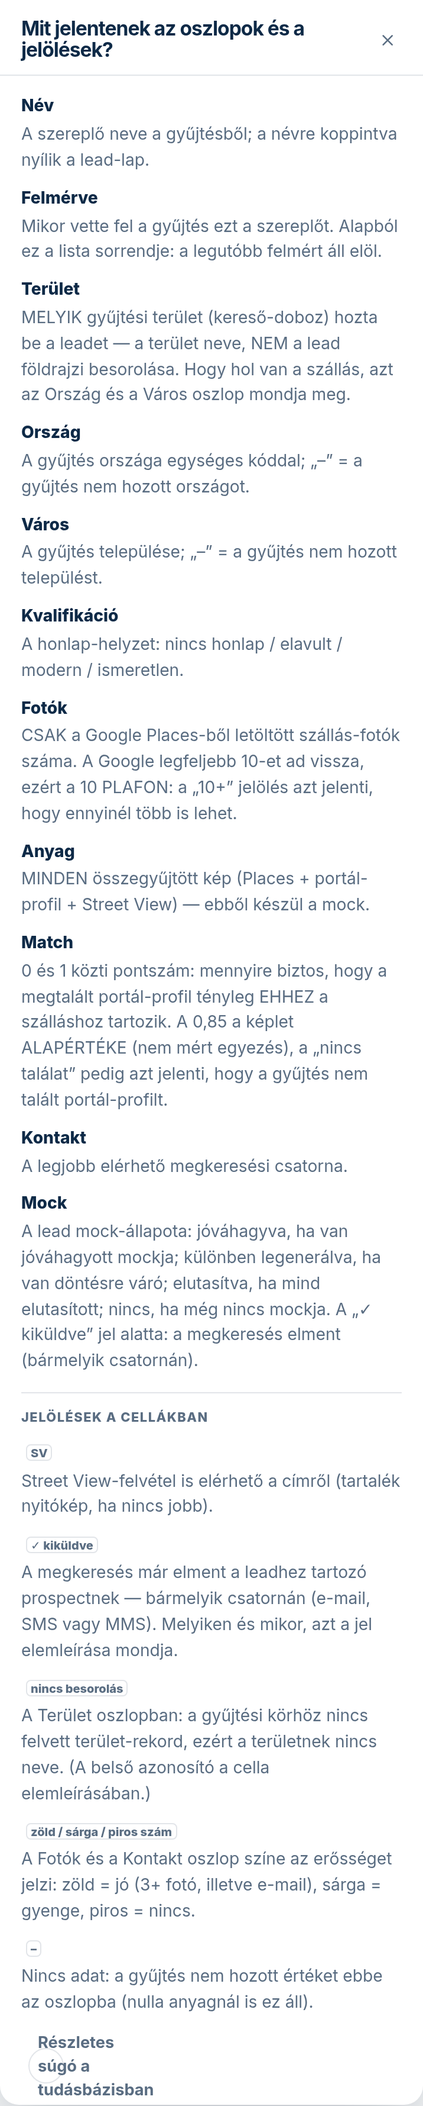
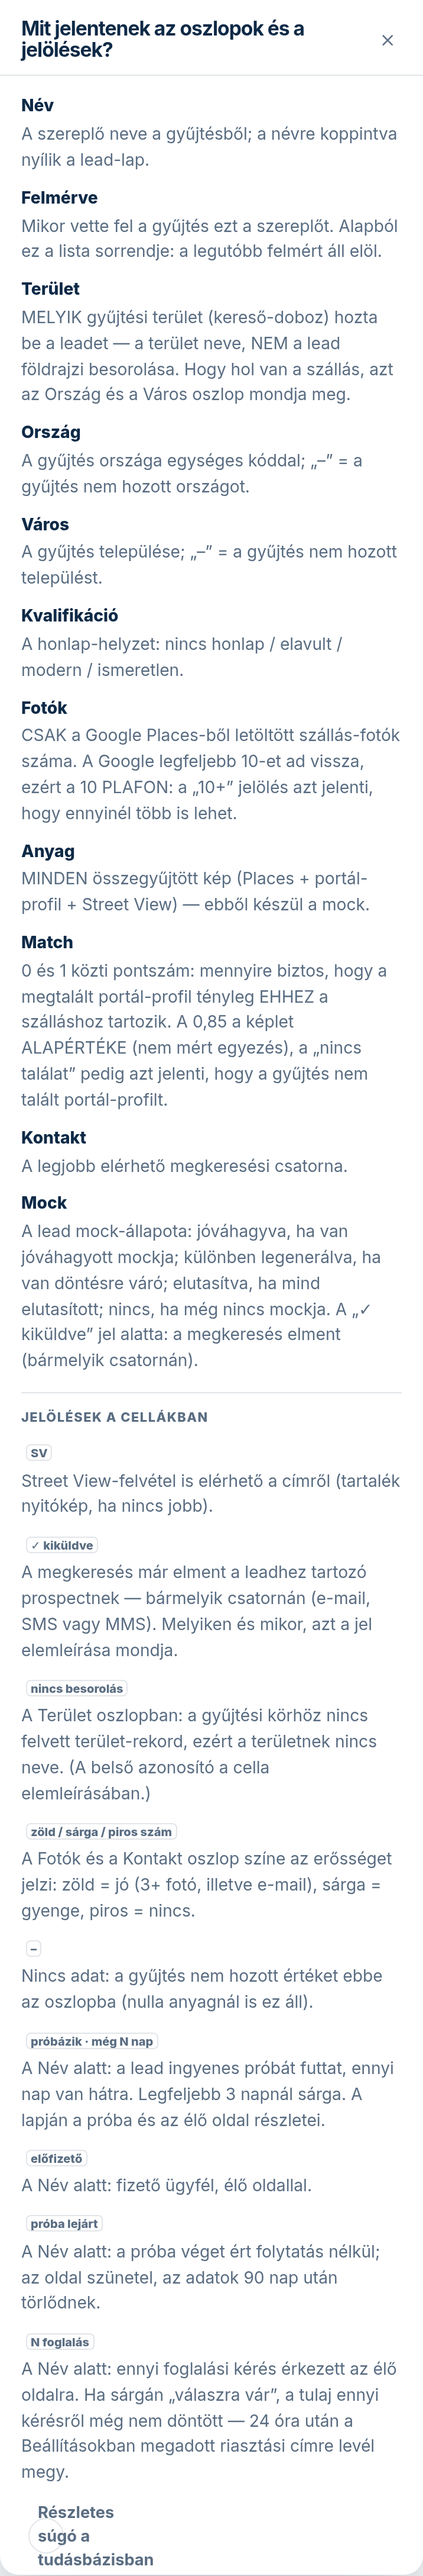
docs(kb): próba és foglalás a konzolon — a súgó a kód szerint (tudasbazis-or FLAG, ADR-0386)
- sárga határ: legfeljebb 3 nap (kód: <= 3), a lista- és a kártya-szöveg, jelmagyarázat, README
- a kártya megjelenési feltétele: próba (bármikor) / előfizető / foglalás — saját oldal egymagában nem
- a jelvény száma: válaszra várónál a váró kérések száma; „ma/holnap lejár”; teendő-mondat
- értesítés: a Beállítások „Üzemi riasztások” mezőnevei, rövid SMS + 6 órás / óránként 4-es szabály, mikor nem jön levél
- console-settings + a Beállítások felület riasztás-listája: új próba (levél + SMS), 24 órája megválaszolatlan foglalás (levél)
- console-free-trial: „Hol látod a próbát” — jelvény, szűrő, ügyfél-kártya, értesítés
- kb-shot: ügyfél-sorok a minta-listában; console-leads screen + legend újragyártva

Claude-Session: https://claude.ai/code/session_012Kxn7H5Dk8ea3TBfrTpnX6

Changed region(s): [[0.0307, 0.0, 0.9218, 0.9983]]

diff --git a/src/console/views.ts b/src/console/views.ts
@@ -786,7 +786,7 @@ export function settingsPage(
     </div>
     <div class="panel" style="max-width:560px">
       <h2>${T(lang, "Üzemi riasztások — ide szól a rendszer")}</h2>
-      <p class="mut small" style="margin:0 0 10px">${T(lang, "Ide megy MINDEN üzemi riasztás: az AAM-keret (18 M Ft/év) 80%/100%-a, a törött MMS+SMS pár, a .hu megerősítő link, a kifizetett, de többszöri próbálkozás után sem elkészült modul-generálás, a megrekedt rendelés (a vevő megrendelt, de fizetési linket nem kapott), az elakadt ingyenes próba (lejárat, értesítés, élesítés, belépő-levél, folytatás-fizetés), és a megvett, de a beállításban elakadt saját domain. Üres e-mail = e-mail csatorna ki; üres SMS-szám = a gép-szintű alap érvényes (ha van).")}</p>
+      <p class="mut small" style="margin:0 0 10px">${T(lang, "Ide megy MINDEN üzemi riasztás: az AAM-keret (18 M Ft/év) 80%/100%-a, a törött MMS+SMS pár, a .hu megerősítő link, a kifizetett, de többszöri próbálkozás után sem elkészült modul-generálás, a megrekedt rendelés (a vevő megrendelt, de fizetési linket nem kapott), az elakadt ingyenes próba (lejárat, értesítés, élesítés, belépő-levél, folytatás-fizetés), és a megvett, de a beállításban elakadt saját domain. Hír is jön ide: az új ingyenes próba (levél + SMS) és a 24 órája megválaszolatlan foglalási kérés (levél). Üres e-mail = e-mail csatorna ki; üres SMS-szám = a gép-szintű alap érvényes (ha van).")}</p>
       ${alertNotice ? `<div class="row" style="margin:0 0 10px"><span class="pill ${alertNotice.ok ? "approved" : "rejected"}">${esc(alertNotice.text)}</span></div>` : ""}
       <form method="post" action="/settings/alerts" style="display:block;max-width:340px">
         <label class="small mut" for="al-phone">${T(lang, "SMS-szám")}</label>

diff --git a/src/console/leadFilters.ts b/src/console/leadFilters.ts
@@ -451,7 +451,7 @@ export function cellMarkMeanings(lang = "hu"): { mark: string; meaning: string }
       mark: T(lang, "próbázik · még {n} nap", { n: "N" }),
       meaning: T(
         lang,
-        "A Név alatt: a lead ingyenes próbát futtat, ennyi nap van hátra. 3 napnál kevesebbnél sárga. A lapján a próba és az élő oldal részletei.",
+        "A Név alatt: a lead ingyenes próbát futtat, ennyi nap van hátra. Legfeljebb 3 napnál sárga. A lapján a próba és az élő oldal részletei.",
       ),
     },
     {
@@ -466,7 +466,7 @@ export function cellMarkMeanings(lang = "hu"): { mark: string; meaning: string }
       mark: T(lang, "{n} foglalás", { n: "N" }),
       meaning: T(
         lang,
-        "A Név alatt: ennyi foglalási kérés érkezett az élő oldalra. Ha sárgán „válaszra vár”, a tulaj még nem döntött róla — 24 óra után a ház levelet kap.",
+        "A Név alatt: ennyi foglalási kérés érkezett az élő oldalra. Ha sárgán „válaszra vár”, a tulaj ennyi kérésről még nem döntött — 24 óra után a Beállításokban megadott riasztási címre levél megy.",
       ),
     },
   ];

diff --git a/kb/entries/console-lead/entry.hu.md b/kb/entries/console-lead/entry.hu.md
@@ -41,33 +41,55 @@ belőle: ha nincs mért egyezés, akkor azt, hogy kiküldés előtt nézd át az
 
 ### Próba és foglalások — az ügyfél-kártya
 
-2026-10-14 óta, ha a leadnek **próbája** vagy **saját oldala** van, a sáv alatt egy kártya mondja
-meg, hol tart ügyfélként (Elek 10-13: addig a lap csak „jóváhagyva”-t írt, a próba és a foglalás
-sehol nem látszott).
+2026-10-14 óta a sáv alatt egy kártya mondja meg, hol tart a lead ügyfélként (Elek 10-13: addig a lap
+csak „jóváhagyva”-t írt, a próba és a foglalás sehol nem látszott). A kártya akkor jelenik meg, ha a lead:
+- próbázik, vagy valaha próbázott;
+- előfizető (akkor is, ha a díjjal késésben van);
+- vagy az élő oldalára foglalási kérés érkezett.
 
-- A kártya címe az állapot: „Próbázik — még 12 nap” (3 napnál kevesebbnél sárga, az utolsó
-  két napon „holnap lejár” / „ma lejár”), **„Előfizető — élő oldal”**, vagy „A próba lejárt 6 napja”.
+Egy saját oldal előfizetés és foglalás nélkül nem kap kártyát.
+
+- A kártya címe az állapot:
+  - próbánál „Próbázik — még N nap”, az utolsó két napon „holnap lejár” / „ma lejár”. Ha legfeljebb
+    3 nap van hátra, a keret és a csík sárga;
+  - **„Előfizető — élő oldal”**;
+  - vagy „A próba lejárt N napja”.
+
   Próbánál egy csík mutatja, hányadik napnál tart.
 - Az **„Élő oldal”** gomb új lapon nyitja a szállás élő oldalát (lejárt próbánál nincs, mert az
   oldal szünetel).
-- Próbánál a kártya kiírja, mikor **indult** és mikor **jár le**, a **„Folytatási kedvezmény”**
-  százalékát (ha még érvényes), a **„Kapcsolattartó (a próba-űrlapról)”** nevét, e-mailjét és
-  telefonját, és hogy előtte ment-e ki hozzá megkeresés. Lejárt próbánál azt is, mikor törlődnek
-  az adatok (a lejárat után 90 nappal).
-- A **„Foglalások”** táblázat az élő oldalra érkezett kéréseket mutatja, a legújabbal kezdve
-  (legfeljebb 10-et): kód, időszak, vendég, ellátás, összeg, állapot (**„válaszra vár”**,
-  **„ajánlat kiment”**, **„visszaigazolva”**, **„elutasítva”**, **„lejárt”**, **„lemondva”**),
-  és mikor érkezett. Telefonon a táblázat soronként kártyává áll.
-- ⚠ Ha a tulaj egy kérésre **24 órája nem válaszolt**, sárga sor mondja meg, mennyi ideje vár a
-  vendég, és mikor jár le magától a kérés (a webhely beállítása szerint, alapból 48 óra után):
-  **„Érdemes felhívni.”** A próba alatt egy elveszett vendég a legrosszabb első élmény.
+- Próbánál a kártya ezeket írja ki:
+  - mikor **indult** és mikor **jár le**;
+  - a **„Folytatási kedvezmény”** százalékát, ha még érvényes;
+  - a **„Kapcsolattartó (a próba-űrlapról)”** nevét, e-mailjét és telefonját;
+  - hogy előtte ment-e ki hozzá megkeresés (**„Honnan indította”**).
 
-**Értesítés.** Új próba indulásakor levél megy a **Beállítások** riasztási e-mail címére
-(„Citoviso: új ingyenes próba — …”), és SMS a riasztási telefonszámra (ékezet nélkül, egy szelet,
-a lejárattal és az élő oldal címével). Éjjel 22 és 07 óra között az SMS vár, és reggel 7-kor a
-többi éjszakai riasztással együtt, egy összesítőben érkezik; a levél ilyenkor is azonnal megy.
-Ha a tulaj egy foglalási kérésre 24 órája nem válaszolt, arról egy levél jön (SMS nem), kérésenként
-egyszer. SMS csak az éles rendszerből megy.
+  Lejárt próbánál azt is, mikor törlődnek az adatok (a lejárat után 90 nappal).
+- A **„Foglalások”** táblázat az élő oldalra érkezett kéréseket mutatja, a legújabbal kezdve,
+  legfeljebb 10-et.
+  - Oszlopok: kód, időszak, vendég, ellátás, összeg, állapot, és mikor érkezett.
+  - Állapotok: **„válaszra vár”**, **„ajánlat kiment”**, **„visszaigazolva”**, **„elutasítva”**,
+    **„lejárt”**, **„lemondva”**.
+  - Telefonon a táblázat soronként kártyává áll.
+- ⚠ Ha a tulaj egy kérésre **24 órája nem válaszolt**, sárga sor jelenik meg. Megmondja, mennyi ideje
+  vár a vendég, és mikor jár le magától a kérés (a webhely beállítása szerint, alapból 48 óra után).
+  A sor ezzel zárul: **„Érdemes felhívni.”** Hívd fel a tulajt: a próba alatt egy elveszett vendég a
+  legrosszabb első élmény.
+
+**Értesítés.** Az értesítések a **Beállítások** lap **„Üzemi riasztások — ide szól a rendszer”**
+panelén megadott **„E-mail címek”** és **„SMS-szám”** mezőkbe mennek.
+
+- **Új próba indulásakor** levél megy („Citoviso: új ingyenes próba — …”), és egy rövid, ékezet
+  nélküli SMS a lejárattal és az élő oldal címével.
+  - Az SMS-re ugyanazok a szabályok állnak, mint minden riasztó SMS-re: ugyanarról 6 órán belül nem
+    jön második, óránként legfeljebb 4 megy ki (a többi csak levélben). Részletek a Beállítások súgójában.
+  - Éjjel 22 és 07 óra között az SMS vár, és reggel 7-kor egy összesítőben érkezik a többi éjszakai
+    riasztással. A levél ilyenkor is azonnal megy.
+  - SMS csak az éles rendszerből megy.
+- **Ha a tulaj egy foglalási kérésre 24 órája nem válaszolt**, arról egy levél jön (SMS nem),
+  kérésenként egyszer.
+  - Nem jön levél, ha a webhelyen a kérés 24 órán belül magától lejár (akkor már nincs mit tenni).
+  - Akkor sem jön, ha a kérés 7 napnál régebbi.
 
 ⚠ **A „Régió” itt a GYŰJTÉS doboza, nem a szállás földrajza.** Az az azonosító, amivel a
 felderítés felvette a szereplőt — nyers alakban (például `balaton-north`). Ne olvasd

diff --git a/kb/entries/console-leads/entry.hu.md b/kb/entries/console-leads/entry.hu.md
@@ -180,14 +180,22 @@ Cellán belüli jelölések:
 2026-10-14 óta a lista megmutatja, melyik lead **ügyfél** már (Elek 10-13: addig a próbázó leadnél
 is csak „jóváhagyva” állt).
 
-- **A név alatt jelvény** áll: „próbázik · még N nap” (3 napnál kevesebbnél sárga),
-  **„előfizető”** vagy **„próba lejárt”**, és ha az élő oldalra foglalás érkezett, „N foglalás”.
-  Ha a tulaj még nem döntött egy kérésről, sárgán: „N foglalás válaszra vár”.
+- **A név alatt jelvény** áll:
+  - próbánál „próbázik · még N nap”, az utolsó két napon „próbázik · holnap lejár” / „próbázik · ma lejár”.
+    Ha legfeljebb 3 nap van hátra, a jelvény sárga;
+  - **„előfizető”**: fizető ügyfél, akkor is, ha a díjjal késésben van;
+  - **„próba lejárt”**: a próba folytatás nélkül véget ért.
+- Ha az élő oldalra foglalás érkezett, mellette „N foglalás” áll (az összes kérés száma). Ha a tulaj egy
+  vagy több kérésről még nem döntött, helyette sárgán „N foglalás válaszra vár” látszik. Ilyenkor N a
+  válaszra váró kérések száma.
+  **Mit tegyél ilyenkor:** koppints a lead nevére. A lapon az ügyfél-kártya mutatja a kéréseket. Ha ott
+  az **„Érdemes felhívni.”** sor is áll, a tulaj egy napja nem válaszolt: hívd fel.
 - **A cím alatti szűrő-sor:** **„Mind”**, **„Próbázik”**, **„Foglalás érkezett”**, **„Előfizető”**,
-  **„Próba lejárt”**, mindegyik mellett a darabszámmal. A szám mindig az EGÉSZ aktív listára
-  vonatkozik, nem a most szűrt sorokra. Egy gombra koppintva a teljes aktív lista azon része jön
-  be. Az oszlop-szűrők és az alapszűrés ilyenkor nem érvényesek, mert egy saját honlappal
-  rendelkező próbázó is ügyfél, és az alapszűrés kiejtené. A **„Mind”** visszavált.
+  **„Próba lejárt”**, mindegyik mellett a darabszámmal.
+  - A szám mindig az EGÉSZ aktív listára vonatkozik, nem a most szűrt sorokra.
+  - Egy gombra koppintva a teljes aktív lista azon része jön be. Az oszlop-szűrők és az alapszűrés
+    ilyenkor nem érvényesek: egy saját honlappal rendelkező próbázó is ügyfél, és az alapszűrés kiejtené.
+  - A **„Mind”** visszavált.
 
 A részleteket (napok, élő oldal, foglalások táblázata) a lead-lapon az ügyfél-kártya mutatja.
 

diff --git a/kb/entries/console-settings/entry.hu.md b/kb/entries/console-settings/entry.hu.md
@@ -81,7 +81,12 @@ Itt adod meg, **hova szóljon a rendszer, ha baj van**. Ugyanez a két címzett 
   vagyis a modemes gép nem viszi ki az üzeneteket. Erről csak levél jön: az SMS ugyanabban a
   sorban várna;
 - a **24 órája hibás naptár-szinkron** (tárgy: „… naptár-szinkron 24 órája hibás”) — egy szállás
-  portál-naptára nem húzható be (a szállás tulaja ugyanekkor levelet kap).
+  portál-naptára nem húzható be (a szállás tulaja ugyanekkor levelet kap);
+- az **új ingyenes próba** (tárgy: „Citoviso: új ingyenes próba — <név> (<város>)”): ki indította,
+  meddig tart, az élő oldal címe — ez nem baj, hanem hír, de a próbázót a konzolon is követni kell;
+- a **24 órája megválaszolatlan foglalási kérés** (tárgy: „Citoviso: válasz nélküli foglalás — <név>
+  (N órája)”): a szállás tulaja nem döntött egy vendég kéréséről, érdemes felhívni. Csak levél,
+  kérésenként egyszer.
 
 ### Melyik riasztás jön SMS-ben is?
 
@@ -90,7 +95,7 @@ mozdult: a megakadt fizetés, a nem feldolgozható fizetési visszahívás, a hi
 második terhelés, a már lezárt fizetésre utólag érkező „sikeres” jelzés, a domain-beszerzés
 bármelyik elakadása, a halott API-kulcs, a leállt időzített feladat, egy szolgáltatás
 összeomlása, a ki nem ment foglalási levél, az el nem indult ingyenes próba és a kézi
-intézésre váró domain-igénylés. Hogy a telefon ne teljen meg:
+intézésre váró domain-igénylés; és — bár nem baj, hanem hír — az **új ingyenes próba**. Hogy a telefon ne teljen meg:
 
 - **ugyanarról az esetről 6 órán belül nem jön második SMS** (a levél igen);
 - **óránként legfeljebb 4 riasztó SMS** megy ki; ami fölötte van, csak levélben jön;

diff --git a/kb/entries/console-free-trial/entry.hu.md b/kb/entries/console-free-trial/entry.hu.md
@@ -33,6 +33,12 @@ A hosszt (alapból 14 nap) és a kupon százalékát (alapból 25%) a **„Áraz
 
 ## Hol látod a próbát a konzolon
 
+- **Lead-lista**: a próbázó lead neve alatt „próbázik · még N nap” jelvény áll, és a cím alatti
+  szűrő-sor **„Próbázik”** gombja csak a próbázókat mutatja (részletek a Lead-lista súgójában).
+- **A lead lapja**: a munkamenet-sáv alatt az ügyfél-kártya mutatja a hátralévő napokat, az élő
+  oldalt, a próba-űrlap kapcsolattartóját és az élő oldalra érkezett foglalásokat (részletek a
+  Lead-lap súgójában).
+- **Értesítés**: új próba indulásakor levél és SMS jön a Beállítások „Üzemi riasztások” címzettjeinek.
 - **Riport → „Tölcsér”**: a **„Kipróbálja-e?”** kártya (próba / kiküldött, cél 5%) a
   **„Megrendeli-e?”** mellett — ugyanarra a nevezőre mér, hogy a két út egymás mellett olvasható
   legyen. A **„Bontás”** táblában a **„Próba”**, a **„Kohorsz”** táblában a **„Próba 14 n.”** oszlop.

diff --git a/assets/design-refs/console/proba-foglalas-lathato/README.md b/assets/design-refs/console/proba-foglalas-lathato/README.md
@@ -28,7 +28,7 @@ szólt, a foglalás a konzolban sehol nem látszott, csak a `/pricing` írta ki,
 ### ① Lista: jelvény a név alatt (C)
 
 - Egy szótár a lead-lappal (`clientPill` / `bookingPill`, `src/console/views.ts`).
-- Próba: „próbázik · még N nap”; 3 napnál kevesebbnél sárga, utána „holnap lejár” / „ma lejár”.
+- Próba: „próbázik · még N nap”; legfeljebb 3 nap hátralévőnél sárga, az utolsó két napon „holnap lejár” / „ma lejár”.
   Ezen kívül **„előfizető”** és **„próba lejárt”**.
 - Foglalás: „N foglalás”. Ha a tulaj még nem döntött egy kérésről, sárgán „N foglalás válaszra vár”.
 - Ügyfél nélküli sorban nincs jelvény.
